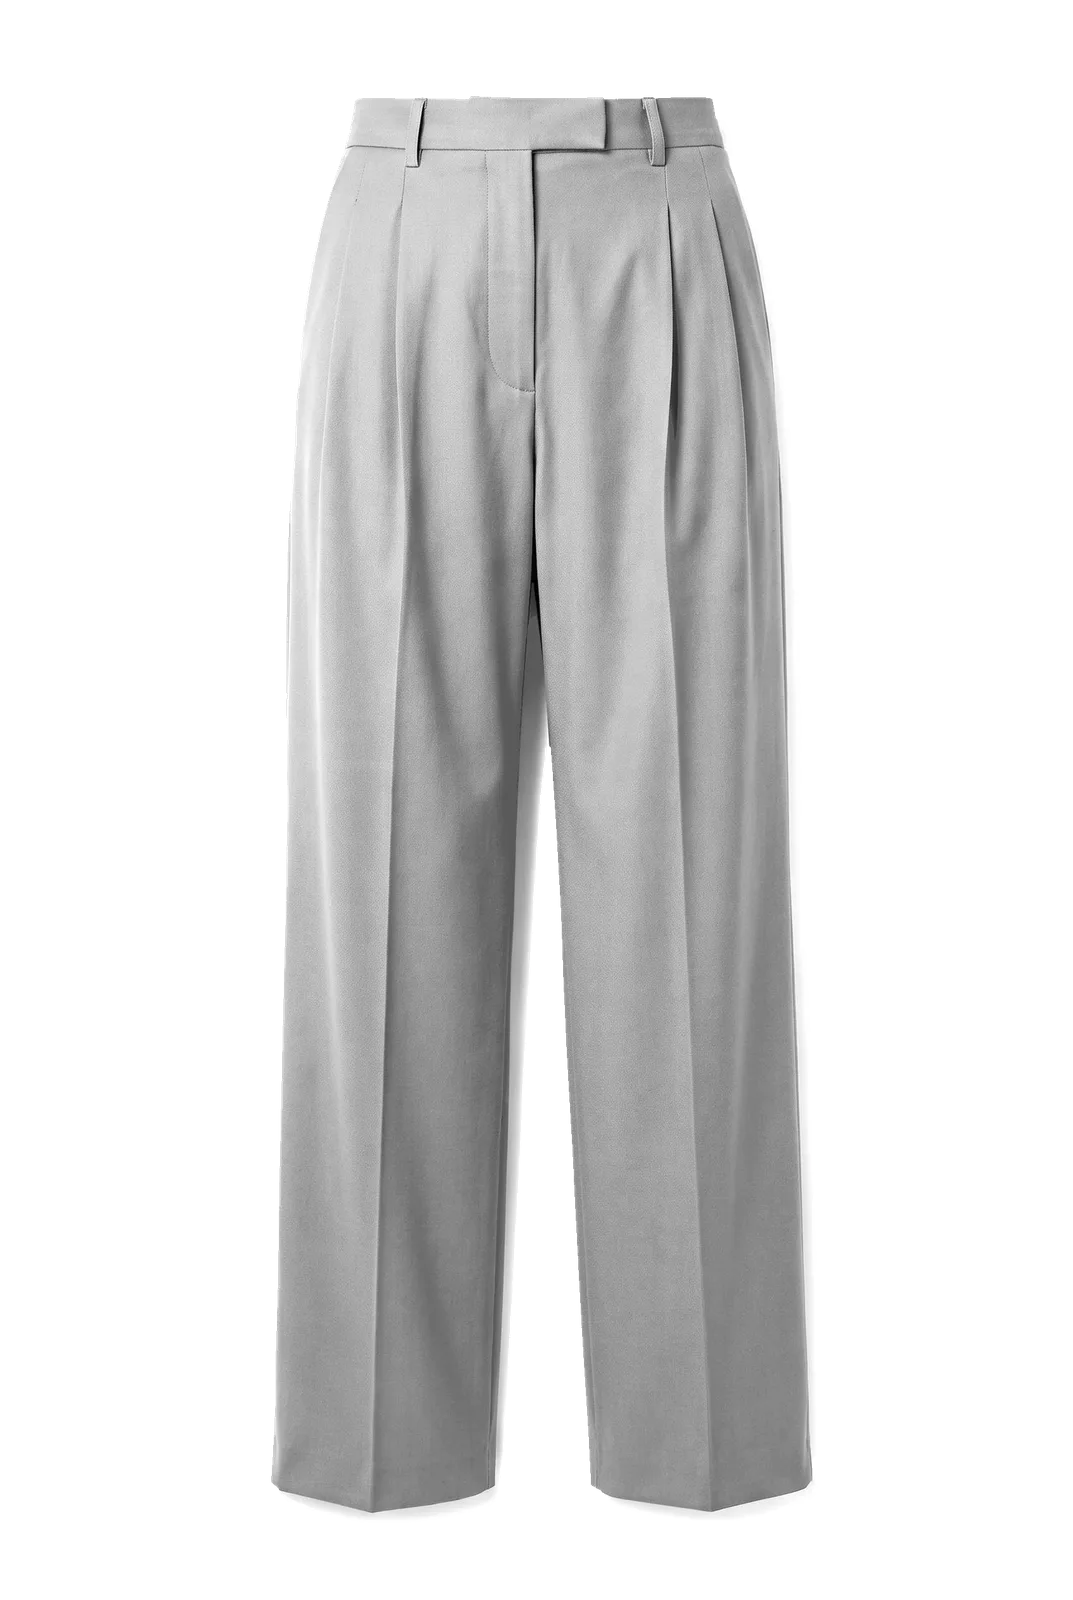
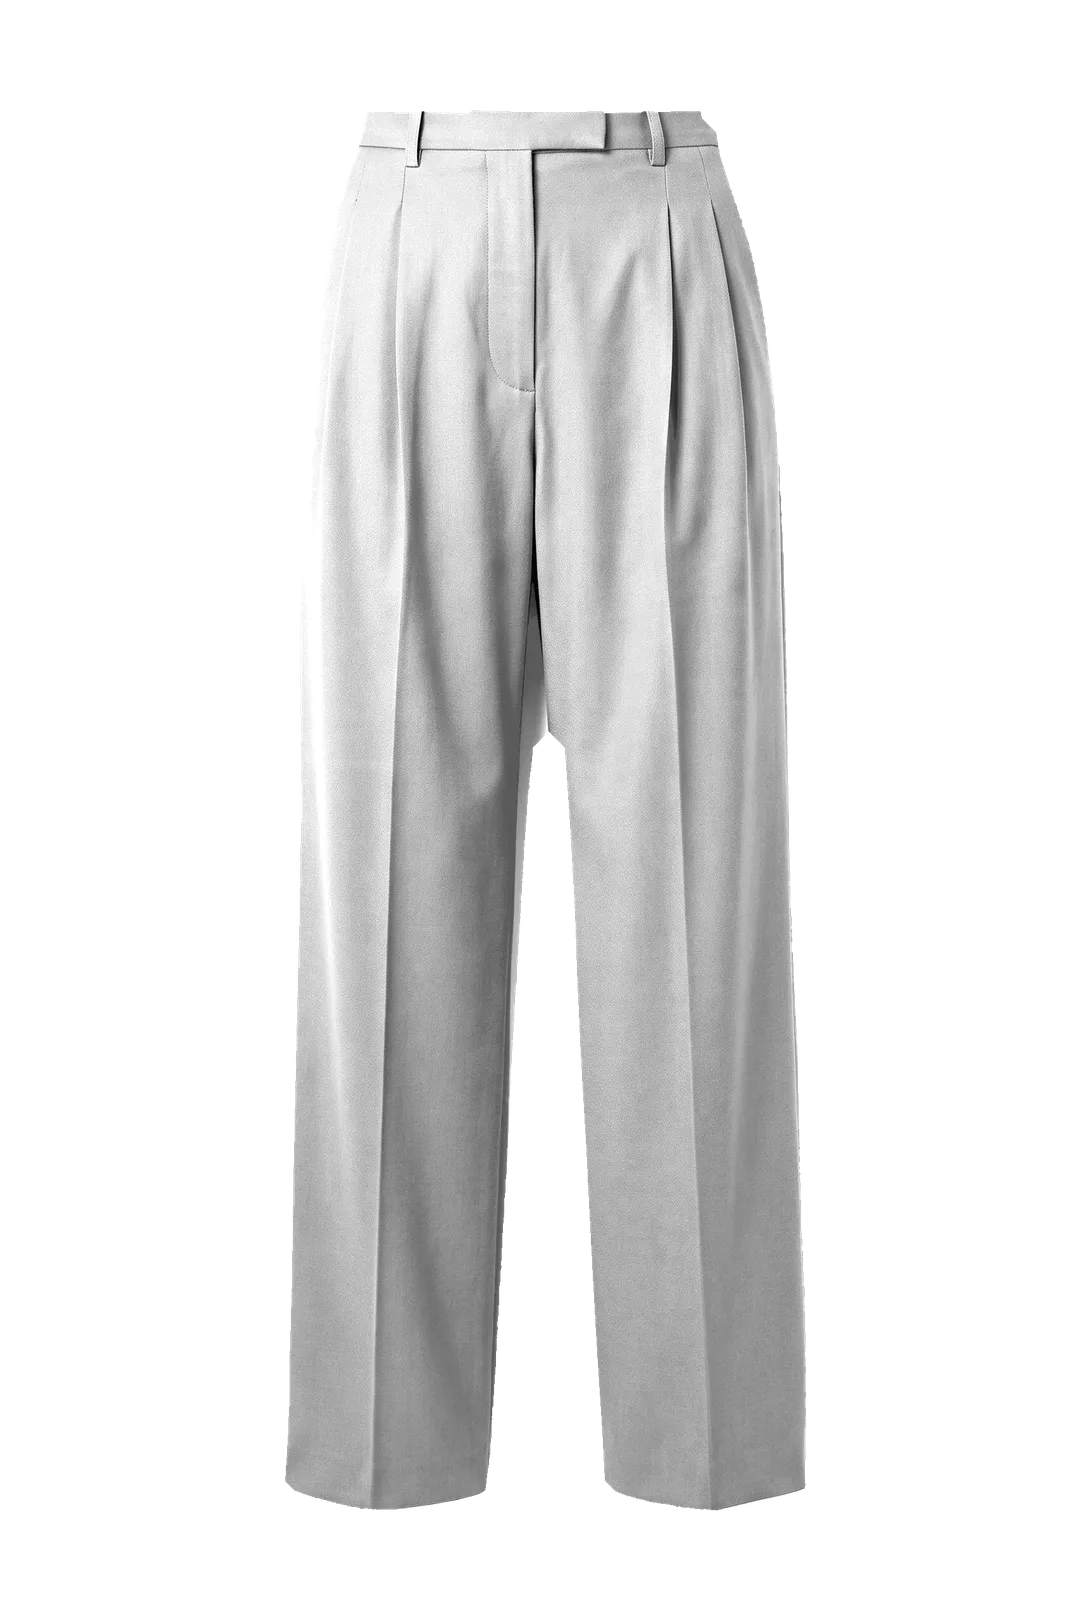
Fix the trouser halo, the twill rope, the drape hem and a misleading label
Four faults reported from the floor.

1. Trousers carried a pale rim tracing the whole silhouette. The two
   trouser sources arrived on a tinted ground and were white-normalised,
   which stretched the photograph's soft edge into a bright fringe more
   than ten pixels deep — measured +71 luma over the garment's interior —
   and the mask boundary sat inside it, so cloth multiplied through at
   near-full brightness. A fixed erosion wide enough for those would bite
   lapel points and hems off every other garment, so erodeFringe() cuts
   one pass at a time and stops when the boundary ring is no longer
   brighter than the garment's own median, probed from well inside so a
   wide rim cannot set the level it is judged against. Rebuild cut 18
   passes on trousers-flat, 22 on trousers-belt, 3 on jacket-db and none
   anywhere else; rim now 181 against an interior of 175.

2. Twill and herringbone ribs used a flat alpha, so a 0.17 white line
   over a near-black worsted read as grey rope across a whole jacket.
   Sheen is a relative lift, so the rib faces now scale with the ground's
   own lightness.

3. The drape read as crumpled paper: the hem was twenty straight segments
   between column points and sawtoothed wherever one fold hung lower than
   its neighbour, and the seeded folds were too narrow. The hem now curves
   through the same points (quads clipped to it, or they put the sawtooth
   straight back) and the fold seed is roughly 0.6x, so the panel breaks
[…]

diff --git a/cloth-study.js b/cloth-study.js
@@ -35,10 +35,10 @@
     // a light cloth breaks into more, finer folds than a heavy one.
     function handleOf(cloth) {
         var weave = (cloth.weave || ""), wt = (cloth.weight_class || "");
-        if (weave === "flannel") return { stiff: 2, grav: 0.23, damp: 0.96, breeze: 0.07, gather: 0.66, folds: 1.05, label: "Soft, full drape" };
-        if (wt === "heavy") return { stiff: 4, grav: 0.14, damp: 0.92, breeze: 0.024, gather: 0.77, folds: 0.78, label: "Crisp, structured" };
-        if (wt === "light") return { stiff: 2, grav: 0.2, damp: 0.95, breeze: 0.06, gather: 0.62, folds: 1.32, label: "Light, fluid drape" };
-        return { stiff: 3, grav: 0.18, damp: 0.94, breeze: 0.04, gather: 0.70, folds: 1.0, label: "Balanced drape" };
+        if (weave === "flannel") return { stiff: 2, grav: 0.23, damp: 0.96, breeze: 0.07, gather: 0.66, folds: 0.62, label: "Soft, full drape" };
+        if (wt === "heavy") return { stiff: 4, grav: 0.14, damp: 0.92, breeze: 0.024, gather: 0.77, folds: 0.46, label: "Crisp, structured" };
+        if (wt === "light") return { stiff: 2, grav: 0.2, damp: 0.95, breeze: 0.06, gather: 0.62, folds: 0.78, label: "Light, fluid drape" };
+        return { stiff: 3, grav: 0.18, damp: 0.94, breeze: 0.04, gather: 0.70, folds: 0.60, label: "Balanced drape" };
     }
 
     function fit(cv, h) {
@@ -208,12 +208,28 @@
         }
         function colX(i) { var s = 0; for (var j = 0; j < ROWS; j++) s += pts[j * COLS + i].sx; return s / ROWS; }
         function colZ(i) { var s = 0; for (var j = 0; j < ROWS; j++) s += pts[j * COLS + i].z + pts[j * COLS + i + 1].z; return s / (ROWS * 2); }
+        // The silhouette, drawn as a curve rather than as the mesh polygon. The
+        // hem is 20 straight segments between column points, and a fold that
+        // hangs lower than its neighbour turns that into a visible sawtooth —
+        // the panel looks torn along the bottom. Curving through the same
+        // points costs nothing and the hem swags instead.
         function outline() {
             var i, j, p;
             ctx.beginPath();
             for (i = 0; i < COLS; i++) { p = pts[i]; if (i === 0) ctx.moveTo(p.sx, p.sy); else ctx.lineTo(p.sx, p.sy); }
             for (j = 1; j < ROWS; j++) { p = pts[j * COLS + COLS - 1]; ctx.lineTo(p.sx, p.sy); }
-            for (i = COLS - 2; i >= 0; i--) { p = pts[(ROWS - 1) * COLS + i]; ctx.lineTo(p.sx, p.sy); }
+            // The hem only. Curving through the bottom points instead of
+            // joining them with 19 straight segments is what stops a fold
+            // hanging lower than its neighbour reading as a sawtooth — the
+            // panel looked torn along the bottom. The corners and the two
+            // selvedges stay straight: curving those rounded the whole
+            // silhouette into a pillow.
+            var hem = (ROWS - 1) * COLS;
+            for (i = COLS - 2; i >= 1; i--) {
+                var c = pts[hem + i], nx = pts[hem + i - 1];
+                ctx.quadraticCurveTo(c.sx, c.sy, (c.sx + nx.sx) / 2, (c.sy + nx.sy) / 2);
+            }
+            p = pts[hem]; ctx.lineTo(p.sx, p.sy);
             for (j = ROWS - 2; j >= 1; j--) { p = pts[j * COLS]; ctx.lineTo(p.sx, p.sy); }
             ctx.closePath();
         }
@@ -228,6 +244,9 @@
             //    hairline seams along every cell.
             var solid = "rgb(" + base[0] + "," + base[1] + "," + base[2] + ")";
             outline(); ctx.fillStyle = solid; ctx.fill();
+            // Quads are straight-edged, so without this they poke past the
+            // curved hem and put the sawtooth straight back.
+            ctx.save(); outline(); ctx.clip();
             // Back to front. A fold nearer the viewer projects wider and hangs
             // lower, so it overlaps its neighbours; drawn left to right the
             // farther column paints over it and the hem gains a hard step.
@@ -255,6 +274,7 @@
                 ctx.fillRect(i * spacing - 2, j * spacing - 2, spacing + 4, spacing + 4);
                 ctx.restore();
             }
+            ctx.restore();
             // 2. Fold shading, multiplied over the weave so folds read as shadow
             //    without hiding the texture (grey <= 1 only darkens).
             var minx = colX(0), maxx = colX(COLS - 1); if (maxx <= minx) maxx = minx + 1;

diff --git a/tools/build-garment-assets.js b/tools/build-garment-assets.js
@@ -208,11 +208,88 @@ function erodeMask(mask, w, h, passes) {
     return cur;
 }
 
+// How far the boundary ring may sit above the garment's own median luma
+// before it counts as background bleed rather than as a lit edge.
+var FRINGE_TOLERANCE = 8;
+
+// How far in to look for the garment's own luma when judging the rim.
+var FRINGE_PROBE_DEPTH = 6;
+
+function medianMaskedLuma(px, mask, w, h) {
+    var hist = new Int32Array(256);
+    var n = w * h, total = 0, i;
+    for (i = 0; i < n; i++) {
+        if (!mask[i]) continue;
+        hist[Math.round(luma(px, i))]++;
+        total++;
+    }
+    if (!total) return 0;
+    var seen = 0;
+    for (i = 0; i < 256; i++) {
+        seen += hist[i];
+        if (seen * 2 >= total) return i;
+    }
+    return 255;
+}
+
+// Mean luma of the masked pixels that touch the outside — the ring the
+// silhouette edge is currently cut through.
+function ringMeanLuma(px, mask, w, h) {
+    var sum = 0, count = 0, x, y, i;
+    for (y = 0; y < h; y++) {
+        for (x = 0; x < w; x++) {
+            i = y * w + x;
+            if (!mask[i]) continue;
+            if ((x > 0 && !mask[i - 1]) || (x < w - 1 && !mask[i + 1]) ||
+                (y > 0 && !mask[i - w]) || (y < h - 1 && !mask[i + w])) {
+                sum += luma(px, i);
+                count++;
+            }
+        }
+    }
+    return count ? sum / count : 0;
+}
+
+// The mask boundary lands wherever the background flood stopped, which is
+// partway down the photograph's own soft edge. On a clean white-ground shot
+// that leaves a pixel or two of fringe and the fixed EDGE_ERODE covers it.
+// The two trousers that arrived on a tinted ground and were white-normalised
+// are different: the normalisation stretched their falloff into a bright rim
+// more than ten pixels deep, which multiplies through as a pale halo tracing
+// the whole silhouette (measured +71 luma over the garment's interior). A
+// fixed erosion wide enough for those would bite lapel points and hems off
+// every other garment, so cut one pass at a time and stop as soon as the
+// boundary ring is no longer brighter than the garment's own median.
+function erodeFringe(px, mask, w, h, tolerance, maxPasses) {
+    if (tolerance === undefined) tolerance = FRINGE_TOLERANCE;
+    if (maxPasses === undefined) maxPasses = 40;
+    // Take the reference median from well inside the silhouette. Measured on
+    // the whole mask the rim would help set the very level it is being judged
+    // against, and a wide enough rim drags the median up to its own value.
+    var probe = erodeMask(mask, w, h, FRINGE_PROBE_DEPTH);
+    var probed = false;
+    for (var p = 0; p < w * h; p++) { if (probe[p]) { probed = true; break; } }
+    var limit = medianMaskedLuma(px, probed ? probe : mask, w, h) + tolerance;
+    var passes = 0;
+    while (passes < maxPasses && ringMeanLuma(px, mask, w, h) > limit) {
+        var next = erodeMask(mask, w, h, 1);
+        var any = false;
+        for (var i = 0; i < w * h; i++) { if (next[i]) { any = true; break; } }
+        if (!any) break; // pathological photo: keep what we have rather than nothing
+        mask = next;
+        passes++;
+    }
+    return { mask: mask, passes: passes };
+}
+
 module.exports = {
     extractMask: extractMask,
     luma: luma,
     keepLargestComponent: keepLargestComponent,
     erodeMask: erodeMask,
+    erodeFringe: erodeFringe,
+    medianMaskedLuma: medianMaskedLuma,
+    ringMeanLuma: ringMeanLuma,
     normaliseLuminance: normaliseLuminance,
     LUMA_FLOOR: LUMA_FLOOR,
     LUMA_CEIL: LUMA_CEIL
@@ -297,6 +374,9 @@ if (require.main === module) {
 
                 var mask = extractMask(px, w, h);
                 mask = erodeMask(mask, w, h, EDGE_ERODE);
+                var fringe = erodeFringe(px, mask, w, h);
+                mask = fringe.mask;
+                if (fringe.passes) console.log("  " + key + ": cut " + fringe.passes + " extra pass(es) of bright fringe");
                 var lum = normaliseLuminance(px, mask, w, h);
 
                 var out = Buffer.alloc(w * h * 4);

diff --git a/weave-engine.js b/weave-engine.js
@@ -64,6 +64,13 @@ function weaveShade(hex, amount) {
     return "rgb(" + step(c.r) + "," + step(c.g) + "," + step(c.b) + ")";
 }
 
+// 0 (black) to 1 (white). Used to keep overlay contrast relative to the
+// ground rather than absolute.
+function weaveLightness(hex) {
+    var c = weaveHexToRGB(hex);
+    return (0.299 * c.r + 0.587 * c.g + 0.114 * c.b) / 255;
+}
+
 function weaveRGBA(hex, alpha) {
     var c = weaveHexToRGB(hex);
     return "rgba(" + c.r + "," + c.g + "," + c.b + "," + alpha + ")";
@@ -135,7 +142,16 @@ function weaveGroundPlain(g, ground, rnd) {
 // side by side, which is what makes the diagonal read as raised.
 // They must be spaced well apart — packed tighter than about 6px the
 // lit and shadowed faces average out and the whole field goes flat.
-function weaveRibs(g, spacing, rightward, lit, shade) {
+function weaveRibs(g, ground, spacing, rightward, lit, shade) {
+    // A rib is sheen off a raised face, and sheen is a RELATIVE lift. A flat
+    // 0.17 white line over a near-black worsted is a pale grey rope: at swatch
+    // size it looks like texture, but poured into a jacket it reads as heavy
+    // diagonal ribbing across the whole garment. Scale both faces with the
+    // ground's own lightness so a black cloth keeps a whisper of wale and a
+    // pale one keeps the full rib.
+    var L = weaveLightness(ground);
+    lit = lit * (0.30 + 0.70 * L);
+    shade = shade * (0.45 + 0.55 * L);
     g.lineWidth = 2;
     for (var d = -WEAVE_TILE * 2; d < WEAVE_TILE * 2; d += spacing) {
         g.strokeStyle = "rgba(255,255,255," + lit + ")";
@@ -164,7 +180,7 @@ function weaveRibs(g, spacing, rightward, lit, shade) {
 function weaveGroundTwill(g, ground, rnd) {
     g.fillStyle = ground;
     g.fillRect(0, 0, WEAVE_TILE, WEAVE_TILE);
-    weaveRibs(g, 8, true, 0.17, 0.16);
+    weaveRibs(g, ground, 8, true, 0.17, 0.16);
     weaveMelange(g, ground, rnd, 0.02, 0.09);
 }
 
@@ -238,7 +254,7 @@ function weaveGroundHerringbone(g, ground, rnd) {
         g.beginPath();
         g.rect(b, 0, band, WEAVE_TILE);
         g.clip();
-        weaveRibs(g, 8, (b / band) % 2 === 0, 0.19, 0.17);
+        weaveRibs(g, ground, 8, (b / band) % 2 === 0, 0.19, 0.17);
         g.restore();
     }
     // A hairline down each band join. Real herringbone shows a visible

diff --git a/tools/test-build-garment-assets.js b/tools/test-build-garment-assets.js
@@ -204,6 +204,45 @@ assert(count2pass < count1pass,
 
 console.log("PASS: erodeMask (multi-pass, passes=2)");
 
+// --- erodeFringe: a bright rim is cut, a clean edge is left alone ---------
+//
+// 29x29 frame: a two-pixel background margin, then the garment. In the
+// haloed fixture the garment's outer three rings are luma 230 (background
+// bleed) over a luma 120 body: erodeFringe must keep cutting until the
+// boundary sits on the body. In the clean fixture the whole garment is luma
+// 120, so it must not cut at all — a fixed erosion wide enough for the halo
+// would eat three rings off every clean garment.
+function ringedFixture(rimLuma) {
+    var w = 29, h = 29, px = new Uint8Array(w * h * 4), mask = new Uint8Array(w * h);
+    for (var y = 0; y < h; y++) for (var x = 0; x < w; x++) {
+        var i = y * w + x;
+        var depth = Math.min(Math.min(x, w - 1 - x), Math.min(y, h - 1 - y));
+        var v = depth < 2 ? 250 : (depth < 5 ? rimLuma : 120);
+        px[i * 4] = v; px[i * 4 + 1] = v; px[i * 4 + 2] = v; px[i * 4 + 3] = 255;
+        mask[i] = depth < 2 ? 0 : 255;
+    }
+    return { px: px, mask: mask, w: w, h: h };
+}
+
+var haloed = ringedFixture(230);
+var cut = b.erodeFringe(haloed.px, haloed.mask, haloed.w, haloed.h);
+
+assert.ok(cut.passes >= 3, "a three-pixel bright rim is cut away (passes " + cut.passes + ")");
+assert.strictEqual(cut.mask[14 * 29 + 14], 255, "the garment body survives the fringe cut");
+assert.ok(
+    b.ringMeanLuma(haloed.px, cut.mask, haloed.w, haloed.h) <= b.medianMaskedLuma(haloed.px, cut.mask, haloed.w, haloed.h) + 8,
+    "after cutting, the boundary ring is no brighter than the garment median"
+);
+
+var clean = ringedFixture(120);
+assert.strictEqual(
+    b.erodeFringe(clean.px, clean.mask, clean.w, clean.h).passes,
+    0,
+    "a garment with no bright rim is not eroded at all"
+);
+
+console.log("PASS: erodeFringe (bright rim cut, clean edge untouched)");
+
 // A garment spanning luma 100..180 should stretch to fill the band.
 var w2 = 4, h2 = 1;
 var px2 = new Uint8Array(w2 * h2 * 4);

diff --git a/sw.js b/sw.js
@@ -6,7 +6,7 @@
 // IMPORTANT: bump CACHE_VERSION on every deploy that changes any
 // cached file (the ?v= params below must match index.html).
 
-var CACHE_VERSION = "bbs-v88";
+var CACHE_VERSION = "bbs-v89";
 
 var PRECACHE = [
     "./",
@@ -22,16 +22,16 @@ var PRECACHE = [
     "./cloth-data.js?v=2",
     "./heritage.js?v=2",
     "./attract-shader.js?v=2",
-    "./weave-engine.js?v=1",
+    "./weave-engine.js?v=2",
     "./garment-photo.js?v=12",
     "./fabric-visualiser.js?v=22",
-    "./cloth-study.js?v=3",
+    "./cloth-study.js?v=4",
     "./archetype-avatars.js",
     "./vendor/cobe.js?v=1",
     "./mill-map.js?v=7",
     "./vendor/html2canvas.min.js",
     "./vendor/jspdf.umd.min.js",
-    "./app.js?v=83",
+    "./app.js?v=84",
     "./fonts/eb-garamond-latin.woff2",
     "./fonts/eb-garamond-italic-latin.woff2",
     "./fonts/manrope-latin.woff2",

diff --git a/index.html b/index.html
@@ -337,16 +337,16 @@
     <script src="cloth-data.js?v=2"></script>
     <script src="heritage.js?v=2"></script>
     <script src="attract-shader.js?v=2"></script>
-    <script src="weave-engine.js?v=1"></script>
+    <script src="weave-engine.js?v=2"></script>
     <script src="garment-photo.js?v=12"></script>
     <script src="fabric-visualiser.js?v=22"></script>
-    <script src="cloth-study.js?v=3"></script>
+    <script src="cloth-study.js?v=4"></script>
     <script src="archetype-avatars.js"></script>
     <script src="vendor/cobe.js?v=1"></script>
     <script src="mill-map.js?v=7"></script>
     <script src="vendor/html2canvas.min.js"></script>
     <script src="vendor/jspdf.umd.min.js"></script>
-    <script src="app.js?v=83"></script>
+    <script src="app.js?v=84"></script>
 
     <script>
         if (

diff --git a/app.js b/app.js
@@ -7496,7 +7496,14 @@ function renderColourDirection() {
         '<button class="arch-btn-next" data-action="colour-next"' +
         (canContinue ? "" : " disabled") +
         ">" +
-        (isLastStep ? "See My Colour Direction \u2192" : "Next \u2192") +
+        // In the guided journey the last colour answer hands straight off to
+        // the Style quiz (see the colour-next branch), so promising the colour
+        // result here sends the client somewhere they are not going yet.
+        (isLastStep
+            ? (appState.inJourney && appState.journeyStage === "colour"
+                ? "On to the Style Quiz \u2192"
+                : "See My Colour Direction \u2192")
+            : "Next \u2192") +
         "</button>" +
         "</div>" +
         "</div>"
